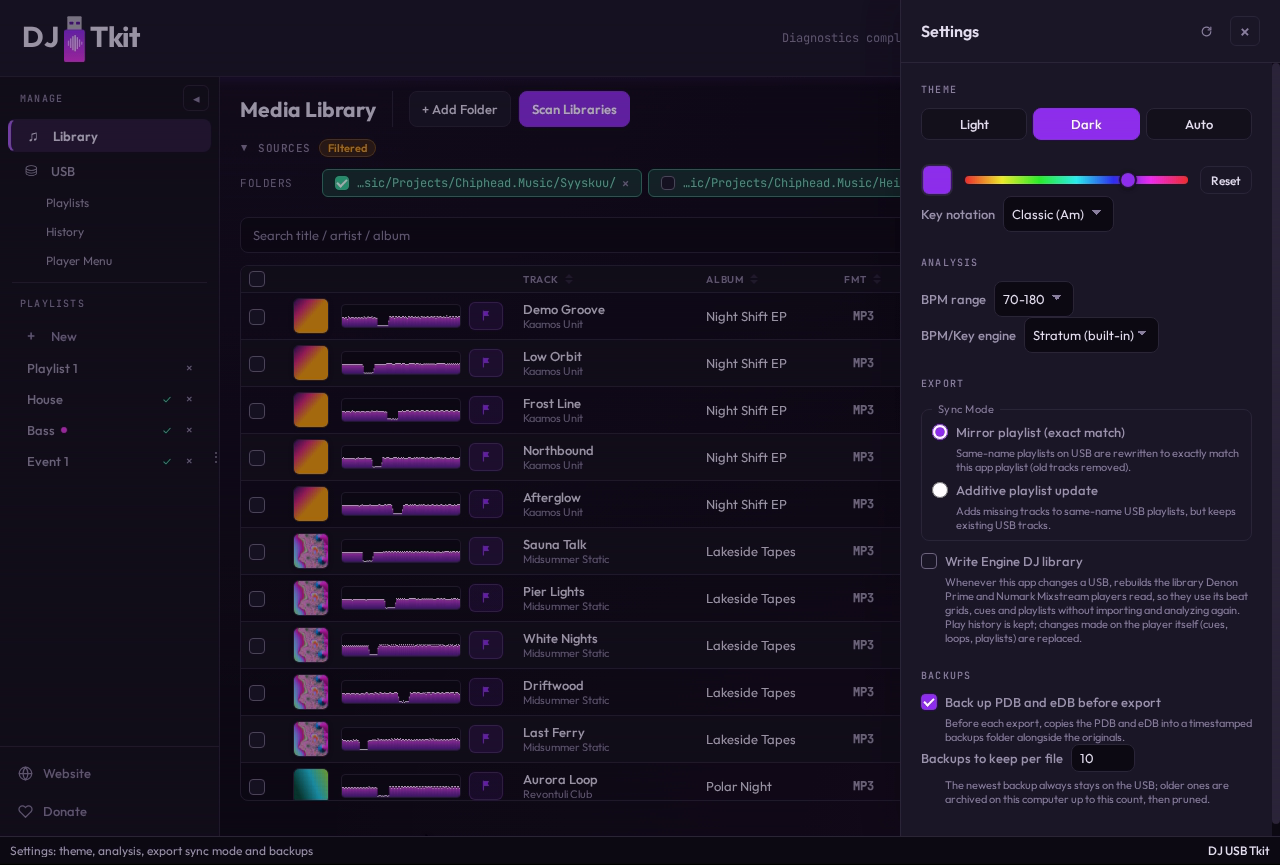
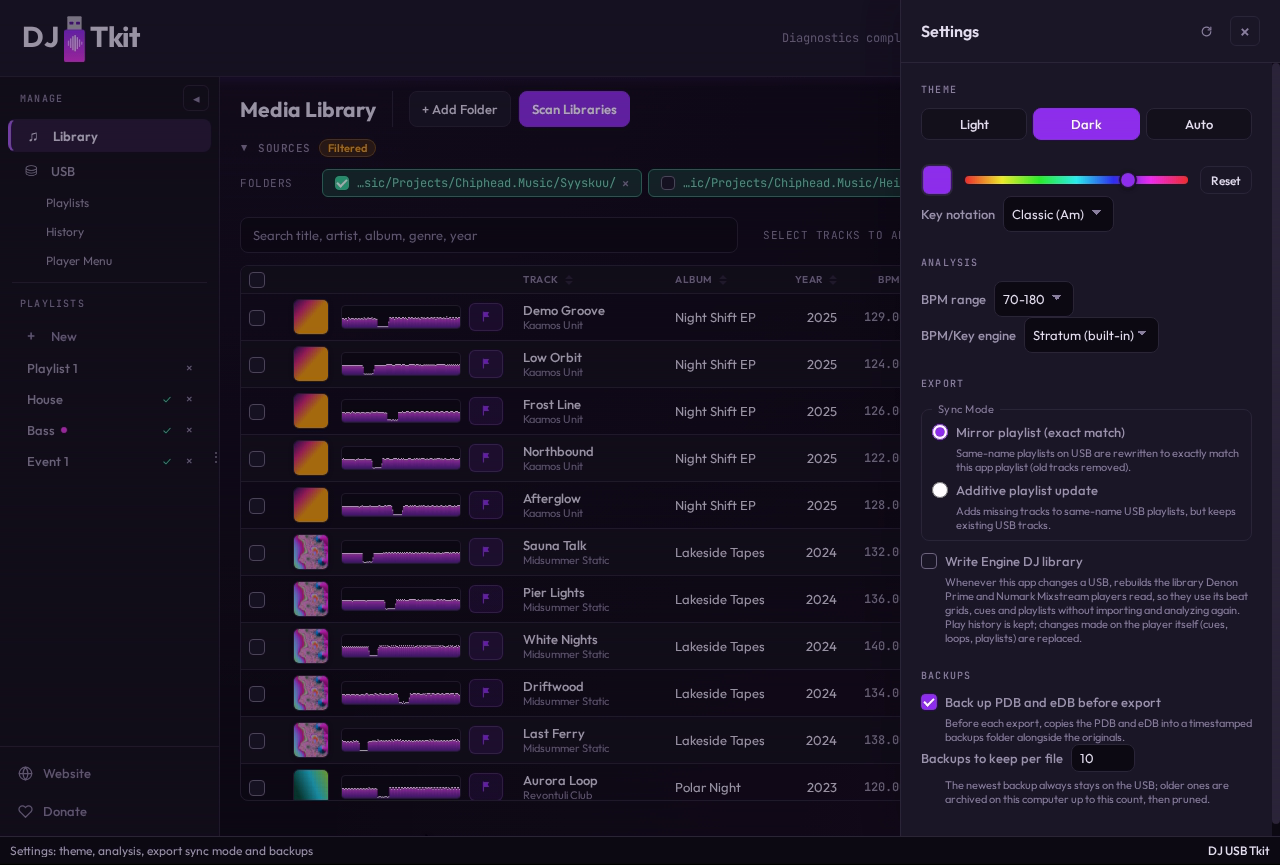
v0.4.3

diff --git a/backend/src/edb.rs b/backend/src/edb.rs
@@ -333,6 +333,31 @@ pub fn try_read_track_index_from_edb(
     try_read_track_index_from_edb_with_conn(&conn, usb_root, warnings)
 }
 
+/// `c.<column>` when the eDB's `content` table has `column`, else `NULL`, so
+/// a read works across eDB schema versions.
+fn content_column_or_null(conn: &rusqlite::Connection, column: &str) -> String {
+    let found = conn
+        .query_row(
+            "SELECT COUNT(1) FROM pragma_table_info('content') WHERE name = ?1",
+            [column],
+            |row| row.get::<_, i64>(0),
+        )
+        .unwrap_or(0)
+        > 0;
+    if found {
+        format!("c.{column}")
+    } else {
+        "NULL".to_string()
+    }
+}
+
+/// A `releaseYear` value as a track's year: none for 0 (no year).
+fn edb_release_year(value: Option<i64>) -> Option<u32> {
+    value
+        .and_then(|year| u32::try_from(year).ok())
+        .filter(|year| *year > 0)
+}
+
 /// Same as `try_read_track_index_from_edb`, but reuses an already-open eDB
 /// connection instead of opening/decrypting a fresh one. Callers that need
 /// several eDB reads in the same operation (e.g. `fetch_usb_playlists`,
@@ -355,6 +380,7 @@ pub fn try_read_track_index_from_edb_with_conn(
         .unwrap_or(0)
         > 0;
     let length_expr = if has_length_col { "c.length" } else { "NULL" };
+    let release_year_expr = content_column_or_null(conn, "releaseYear");
     let image_fk_col = if conn
         .query_row(
             "SELECT COUNT(1) FROM pragma_table_info('content') WHERE name = 'imageFilePath_id'",
@@ -381,7 +407,8 @@ pub fn try_read_track_index_from_edb_with_conn(
           c.path,
           img.path AS image_path,
           c.analysisDataFilePath,
-          {length_expr} AS length_seconds
+          {length_expr} AS length_seconds,
+          {release_year_expr} AS release_year
         FROM content c
         LEFT JOIN artist ar ON ar.artist_id = c.artist_id_artist
         LEFT JOIN album al ON al.album_id = c.album_id
@@ -413,6 +440,7 @@ pub fn try_read_track_index_from_edb_with_conn(
         let image_path: Option<String> = row.get(7)?;
         let analysis_path: Option<String> = row.get(8)?;
         let length_seconds: Option<i64> = row.get(9)?;
+        let release_year: Option<i64> = row.get(10)?;
         let resolved_file_path = path
             .as_deref()
             .and_then(|p| resolve_usb_side_path_text(usb_root, p))
@@ -428,7 +456,7 @@ pub fn try_read_track_index_from_edb_with_conn(
                 title: title.unwrap_or_else(|| "Unknown Title".to_string()),
                 artist: artist.unwrap_or_else(|| "Unknown Artist".to_string()),
                 album,
-                year: None,
+                year: edb_release_year(release_year),
                 genre: None,
                 track_number: None,
                 bpm: bpmx100.map(|v| v as f64 / 100.0),
@@ -673,6 +701,7 @@ fn try_read_playlists_with_metadata_from_edb_internal_with_conn(
     } else {
         "NULL"
     };
+    let release_year_expr = content_column_or_null(conn, "releaseYear");
     let image_fk_col = if conn
         .query_row(
             "SELECT COUNT(1) FROM pragma_table_info('content') WHERE name = 'imageFilePath_id'",
@@ -746,7 +775,8 @@ fn try_read_playlists_with_metadata_from_edb_internal_with_conn(
               img.path AS image_path,
               c.analysisDataFilePath,
               {length_expr} AS length_seconds,
-              {track_no_expr} AS track_no
+              {track_no_expr} AS track_no,
+              {release_year_expr} AS release_year
             FROM playlist_content pc
             JOIN content c ON c.content_id = pc.content_id
             LEFT JOIN artist ar ON ar.artist_id = c.artist_id_artist
@@ -774,6 +804,7 @@ fn try_read_playlists_with_metadata_from_edb_internal_with_conn(
             let analysis_path: Option<String> = row.get(8)?;
             let length_seconds: Option<i64> = row.get(9)?;
             let track_no: Option<i64> = row.get(10)?;
+            let release_year: Option<i64> = row.get(11)?;
             let resolved_image_path = if resolve_paths {
                 image_path
                     .as_deref()
@@ -804,7 +835,7 @@ fn try_read_playlists_with_metadata_from_edb_internal_with_conn(
                 title: title.unwrap_or_else(|| "Unknown Title".to_string()),
                 artist: artist.unwrap_or_else(|| "Unknown Artist".to_string()),
                 album,
-                year: None,
+                year: edb_release_year(release_year),
                 genre: None,
                 track_number: track_no.and_then(|value| u32::try_from(value).ok()),
                 bpm: bpmx100.map(|v| v as f64 / 100.0),

diff --git a/backend/tests/usb_service_functional.rs b/backend/tests/usb_service_functional.rs
@@ -10,10 +10,11 @@ use backend::commands::BackendCommands;
 use backend::error::ErrorCode;
 use backend::models::{
     AddLibrarySelectionToPlaylistRequest, BrowseSourceFilesRequest, CreatePlaylistRequest,
-    ExportToUsbOptions, ExportToUsbRequest, FetchUsbHistoriesRequest, FetchUsbTracksRequest,
-    GetTracksMetadataSummaryRequest, GetUsbTracksMetadataSummaryRequest, InitializeUsbRequest,
-    InspectUsbTrackRequest, SaveTrackMetadataEditsRequest, SaveUsbTrackMetadataEditsRequest,
-    ScanLibraryRequest, SharedValue, UsbMetadataEditTrack, ValidateUsbRootRequest,
+    ExportToUsbOptions, ExportToUsbRequest, FetchUsbHistoriesRequest, FetchUsbPlaylistsRequest,
+    FetchUsbTracksRequest, GetTracksMetadataSummaryRequest, GetUsbTracksMetadataSummaryRequest,
+    InitializeUsbRequest, InspectUsbTrackRequest, SaveTrackMetadataEditsRequest,
+    SaveUsbTrackMetadataEditsRequest, ScanLibraryRequest, SharedValue, UsbMetadataEditTrack,
+    ValidateUsbRootRequest,
 };
 use backend::pdb_reader::parse_pdb;
 use tempfile::tempdir;
@@ -1092,4 +1093,54 @@ fn library_group_edit_changes_only_named_fields_on_every_track() {
     let after = summary();
     assert_eq!(after.genre.value.as_deref(), Some("Gabber Waltz"));
     assert!(after.rating.mixed && after.release_date.mixed);
+}
+
+#[test]
+fn usb_playlist_rows_carry_the_exported_release_year() {
+    let root = tempdir().expect("temp root");
+    let media = root.path().join("media");
+    let usb = root.path().join("usb");
+    fs::create_dir_all(&usb).expect("create usb dir");
+    let data_dir = root.path().join("data");
+    let backend = BackendCommands::new(&data_dir).expect("create backend");
+    let initialized = backend.initialize_usb(InitializeUsbRequest {
+        usb_root: usb.to_string_lossy().to_string(),
+    });
+    assert!(initialized.ok, "initialize usb failed: {initialized:?}");
+    scan_and_export_tracks(
+        &backend,
+        &data_dir,
+        &media,
+        &usb,
+        &[("noart/track_no_art.mp3", "Year Artist - One.mp3")],
+        "Year Playlist",
+    );
+    // Export always dates a track (here from the file), so the PDB has a year.
+    let pdb_year = parse_pdb(&pdb_path(&usb)).expect("parse pdb").tracks[0]
+        .release_year
+        .map(u32::from);
+    assert!(pdb_year.is_some());
+
+    // The playlist's rows come from the eDB, which carries the same year.
+    let usb_root = Some(usb.to_string_lossy().to_string());
+    let playlist = backend
+        .fetch_usb_playlists(FetchUsbPlaylistsRequest {
+            usb_root: usb_root.clone(),
+        })
+        .data
+        .expect("usb playlists")
+        .items
+        .remove(0);
+    assert_eq!(playlist.source, "eDB");
+    assert_eq!(playlist.tracks[0].year, pdb_year);
+    let page = backend
+        .fetch_usb_playlist_tracks(FetchUsbTracksRequest {
+            usb_root,
+            id: playlist.id,
+            limit: 10,
+            ..Default::default()
+        })
+        .data
+        .expect("usb playlist page");
+    assert_eq!(page.items[0].year, pdb_year);
 }

diff --git a/CHANGELOG.md b/CHANGELOG.md
@@ -37,7 +37,9 @@
   - **Fix (CRITICAL):** ...
 -->
 
-## Unreleased
+## 0.4.3
+
+**Severity:** feature
 
 - **New feature:** The Event Log writes everything it records to a log file that covers the
   whole session, and an "Open log file" button opens it. The list in the window keeps only the
@@ -95,6 +97,7 @@
   "+" does, and the duplicate-USB-track cleanup runs at startup as it does for users. Seven
   commands the app never called are removed, along with an option to add a track to a playlist
   it's already in that the app never used.
+- **Chore:** Updated dependencies (`combine`, `defmt`).
 
 ## 0.4.2
 
